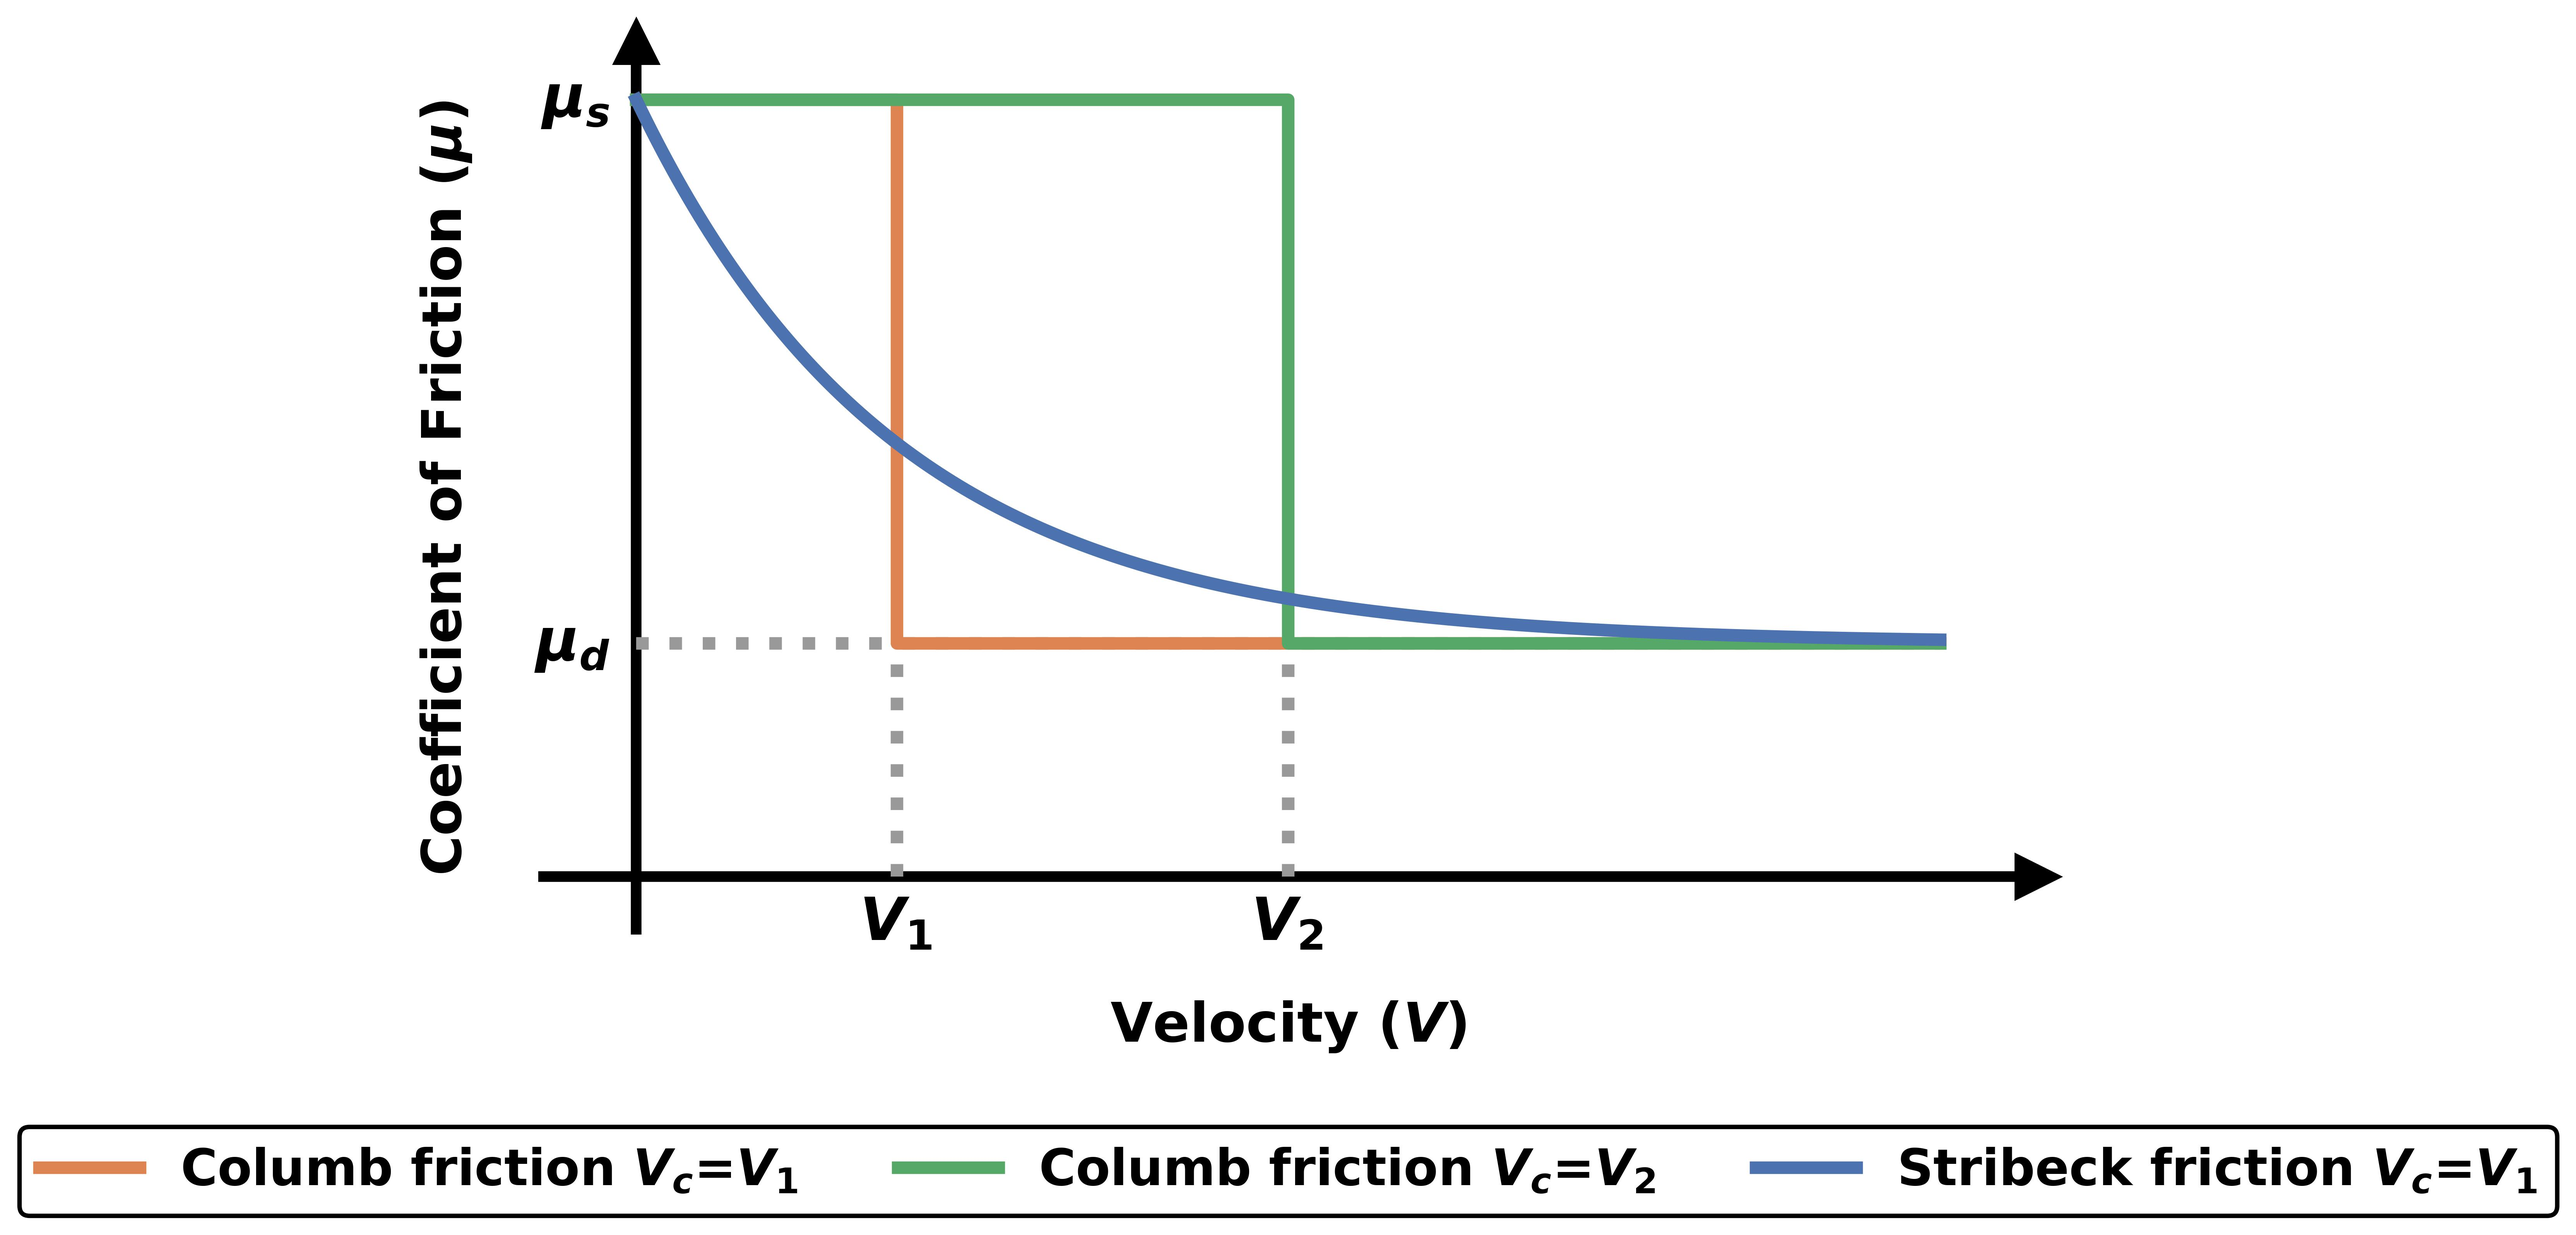
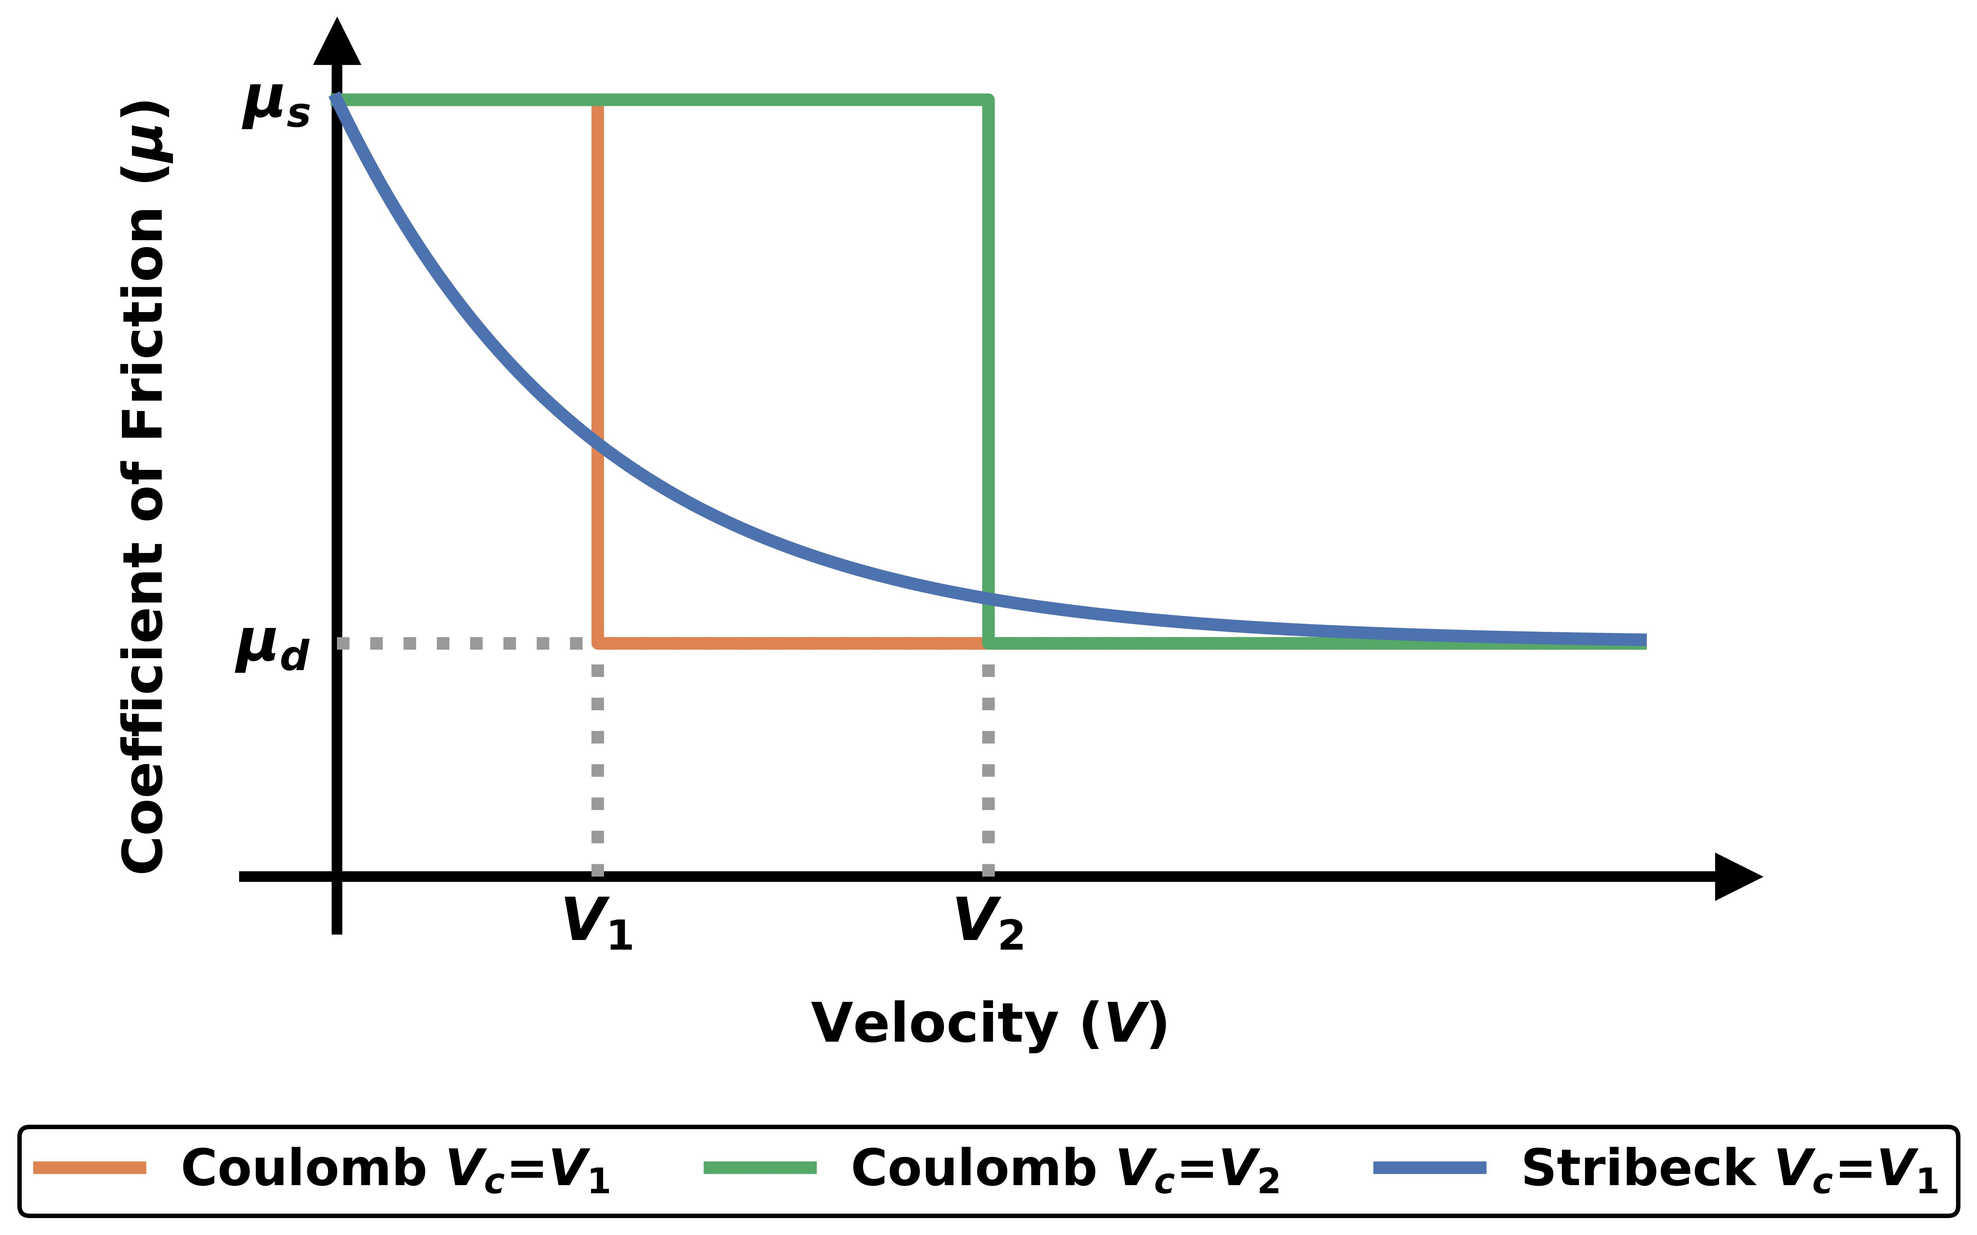
Separated Recommended Procedures for Developing Test Cases into its own chapter.

diff --git a/src/Recommended Procedures for Developing Test Cases.tex b/src/Recommended Procedures for Developing Test Cases.tex
@@ -1,46 +1,67 @@
 \chapter{Recommended Procedures for Developing Test Cases}
+This chapter presents recommended practices for developing Test Cases.  Some of the material presented is general ``debugging'' practices and useful to other scenarios than just drill string model comparisons; other topics are more specific to the current project, but are items that might be unknown or easily overlooked.  Theses learnings from developing the Test Cases should both help the reader understand why the particular Test Cases were chosen and provide a methodology for developing any new cases.
 
-In addition to the Test Cases themselves, the learnings from developing the Test Cases is presented.  This will both help the reader understand why the particular Test Cases were chosen and provide a methodology for developing any new cases.
-
-
-Drill string models are complex and contain a number of parameters.  These parameters are used to make a simulation more realistic, but they are often implemented in different ways in different models.
-
-
-
+\section{General Practices}
+Drill string models are complex and may be developed in very different manners.  To compare then, it is recommended to use standard best practices for debugging.  These practices are universal regardless if you are debugging a mechanical system or software source code.
 \begin{bulletedlist}
-	\item For initial model comparison, remove top drive to eliminate it as a variable
-	\item Use with a vertical borehole
-
-	\item Note how tool joints are handled: ignored, modified stiffness (equivalent stiffness), account for contact/friction?
-	\item Carefully examine the units and ensure they are accurately converted
+	\item Start with the simplest possible case and get that to work first
+	\item Vary parameters one by one, changing multiple at a time convolutes behavior and makes it difficult to determine which parameter affected what part of the behavior
+    \item Learn the subtle details about how the models work, these often are overlooked and can a significant impact on model behavior
 \end{bulletedlist}
-\notfinished{}
+
+\section{Parameters}
+Drill string models and contain a number of input parameters.  These parameters are used to make a simulation more realistic, but they are often implemented in different ways in different models.  This makes comparing models challenging.
+\begin{numberedlist}
+	\item Be mindful of the units, they may be in completely different systems or have subtle definition differences that must be accounted for
+	\item Eliminate as many variables as possible by carefully selecting your Test Case
+	\item Add parameters back one by one once you have succeeded in matching model behavior
+\end{numberedlist}
+
+\section{Practices for Drill String Models}
+Below are some practices that are specific to drill string models that can assist in model comparisons.
+
+\begin{definition}{Remove the top drive}
+Top drive models can have a dramatic impact on model behavior and they can be a challenge to match.  The tuning parameters used in the model may not translate well to another model.  It is best to start by removing the top drive and matching model behavior.  Once that is done, the top drives can be added back and it is known that any differences are caused by the top drive model.
+\end{definition}
+
+\begin{definition}{Start with a vertical borehole}
+This removes the effects of the friction model, gravity, and other effects.
+\end{definition}
+
+\begin{definition}{Start by removing the tool joints}
+This eliminates multiple variables such as how the tool joint stiffness and contact are calculated.
+\end{definition}
+
+\begin{definition}{Note how tool joints are handled}
+Are the tool joints ignored or directly handled by the model?  If the model does not handle the tool joints internally, it may be necessary to use techniques such as modifying the stiffness (equivalent stiffness) to be able to compare one drill string model to another.  It will also be important to account for the contact and friction in this case.
+\end{definition}
 
 \section{Friction Models}
 When working with various friction models, it becomes vital to identify parameters that result in similar frictional behaviors.  The parameters for the friction models are static coefficient of friction, dynamic coefficient of friction, and critical velocity. Generally, the static and dynamic coefficients of friction can be equated across different models, while special attention is required to align the critical velocity with the desired frictional behavior.
 
 \subsection{Units}
-In the context of modeling torsional dynamics, if the critical velocities of two different models are provided in different units such as meters per second ($m/s$) and revolutions per minute ($RPM$), unit compatibility must first be established for meaningful comparison. Converting $m/s$ to $RPM$ can be achieved by \equationname~\ref{velocity_conversion}.
+In the context of modeling torsional dynamics, if the critical velocities of two different models are provided in different units such as meters per second ($m/s$) and revolutions per minute ($RPM$), unit compatibility must first be established for a meaningful comparison. Converting $m/s$ to $RPM$ can be achieved by using
 \begin{equation}\label{velocity_conversion}
-  V=v\frac{60}{2\pi}*r_o
+    V = v\frac{60}{2\pi}r_o
 \end{equation}
 where $V$ and $v$ are angular velocity expressed in $RPM$, and $m/s$, respectively, and $r_o$ is outer radius of the drill pipe.  Note that this conversion relies on the pipe diameter and thus will, in general, vary along the length of the drill string.  For this reason, it is preferred that the input units for the critical velocity to be linear and the conversion be done internally by the drill string model on each pipe segment.
-
-
 
 % \wordingstart{} After matching the units, the critical angular velocity of the model, which is for the comparison, can be decided by comparing the frictional force with respect to angular velocity. \wordingend{}
 %For instance, considering Test Case 2 with a critical velocity of 0.03 $m/s$ and a drill string radius of 0.075 $m$, the critical velocity can be converted to 4$RPM$.
 
-\figurename~\ref{figure:stribeck_coulomb_friction} shows an example comparison between Coulomb and Stribeck friction models. It compares two different critical velocities of a Coulomb model with a Stribeck model.
+\section{Coulomb versus Stribeck Friction Models}
+Coulomb and Stribeck friction models both account for sliding friction.  The Coulomb model is simpler and is a step function that alternates from the static friction coefficient and dynamic friction coefficient.  The critical velocity may take any, but is frequently assume to be zero.  The Stribeck model is a little more sophisticated and assumes an exponential decay between the static and dynamic coefficients of friction.  In the more general cases, both models may assume an increase in the friction coefficient as the velocity increases (this effect is not included for this project).
 
-In this project, we selected an angular velocity of 10 $RPM$ for the Coulomb model. This choice allows us to align the exponentially decreasing component of the Stribeck model with the static friction inherent in the Coulomb friction model. However, it is important to note that additional tests involving different angular velocities have been performed and are included in the appendix chapter for comprehensive analysis. \reviewcomment{If not added, modify}
-
+To compare a model that uses a Coulomb friction model to one that uses a Stribeck model, the challenge is in selecting the appropriate critical velocity.  To demonstrate this, \figurename~\ref{figure:stribeck_coulomb_friction} shows an example comparison between Coulomb and Stribeck friction models. It compares two different critical velocities of a Coulomb model with a Stribeck model.
 \begin{figure}
-  \centering
-  \includegraphics[width=5in]{Stribeck_Coulomb_friction}
-  \caption[Comparison between Coulomb and Stribeck friction model]{A comparison between Coulomb and Stribeck friction models. A Stribeck model with a critical velocity of $V_1$ is compared to Coulomb friction models with critical velocities of $V_1$ and $V_2$. $\mu_s$ and $\mu_d$ indicate the static and dynamic coefficients of friction, respectively, and $V$ is the velocity.  The Coulomb model with a critical velocity of $V_1$ matches the critical velocity of the Stribeck friction.  The choice of $V_2$ as the critical velocity for the Coulomb friction is closer to the point where the Stribeck model coefficient begins to significantly increase.}\label{figure:stribeck_coulomb_friction}
+	\centering
+	\includegraphics[height=2.25in]{Stribeck_Coulomb_friction}
+    \caption[Comparison between Coulomb and Stribeck friction model]{A comparison between Coulomb and Stribeck friction models. A Stribeck model with a critical velocity of $V_1$ is compared to Coulomb friction models with critical velocities of $V_1$ and $V_2$. $\mu_s$ and $\mu_d$ indicate the static and dynamic coefficients of friction, respectively, and $V$ is the velocity.  The Coulomb model with a critical velocity of $V_1$ matches the critical velocity of the Stribeck friction.  The choice of $V_2$ as the critical velocity for the Coulomb friction is closer to the point where the Stribeck model coefficient begins to significantly increase.}
+	\label{figure:stribeck_coulomb_friction}
 \end{figure}
+The Coulomb model with a critical velocity of $V_1$ matches the critical velocity of the Stribeck friction.  The choice of $V_2$ as the critical velocity for the second Coulomb friction curves moves the change from static to dynamic coefficients of friction to the point where the Stribeck model coefficient begins to significantly increase.
 
+There are arguments for selecting either $V_1$ or $V_2$.  The choice $V_1$ seems to be a natural choice.  It is the same value the Stribeck model uses as its critical velocity.  In addition, as a method to measure how close the curves are, we could calculate the area under the curves.  In \figurename~\ref{fig:frictionmodelareaundercurves}, this is demonstrated.
 \begin{figure}
 	\begin{minipage}[t]{\linewidth}
 			\begin{minipage}[t]{0.325\linewidth}
@@ -64,6 +85,11 @@ In this project, we selected an angular velocity of 10 $RPM$ for the Coulomb mod
 				\label{fig:Stribeck_Coulomb_friction_filled_1}
 			\end{minipage}
 	\end{minipage}
-	\caption[Areas under friction curves]{The areas under the friction curves are used as a measurement of how close the curves are to each other.  The choice of $V_1$ for the critical velocity of the Coulomb friction creates an area under the curve which is closer to the Stribeck curve.  The areas were calculated for the velocity range of $[0, 2V_2]$.  The legend from \figurename~\ref{figure:stribeck_coulomb_friction} is applicable here as well.}
+    \caption[Areas under friction curves]{The areas under the friction curves are used as a measurement of how close the curves are to each other.  The choice of $V_1$ for the critical velocity of the Coulomb friction in~(\subref{fig:Stribeck_Coulomb_friction_filled_0}) creates an area under the curve which is closer to the Stribeck curve shown in~(\subref{fig:Stribeck_Coulomb_friction_filled_2}).  The choice of $V_2$ for the critical velocity of the Coulomb model, shown in in~(\subref{fig:Stribeck_Coulomb_friction_filled_1}), leads to a larger area.  The areas were calculated for the velocity range of $[0, 2V_2]$.  The legend from \figurename~\ref{figure:stribeck_coulomb_friction} is applicable here as well.}
 	\label{fig:frictionmodelareaundercurves}
 \end{figure}
+It can be seen that, on average, the coefficient of friction from the Coulomb model with a critical velocity of $V_1$ is a close match to the Stribeck model.  The argument for selection $V_2$ is that it is closer to when the Stribeck model coefficient of friction begins to increase and this may better match the behavior of the Stribeck model.  It should be noted, these are only two choices and others are possible as well.  The choice of what critical velocity to use is non-obvious.  Therefore, testing should be conducted to determine the best value.
+
+Some preliminary testing indicated $V_2$ gave a better match between models\footnote{The results are not included as part of this report.}.  Therefore, in this project, we selected a critical angular velocity that corresponds to $V_2$ for the Coulomb model. This choice allows us to align the exponentially decreasing component of the Stribeck model with the end point of static friction of the Coulomb friction model.  However, it should be noted that this may not be a universal selection and further testing should be performed to investigate further.
+
+%However, it is important to note that additional tests involving different angular velocities have been performed and are included in the appendix chapter for comprehensive analysis. 

diff --git a/src/Glossary.tex b/src/Glossary.tex
@@ -35,6 +35,12 @@
 	description=In the drilling dynamics realm\comma{} this taken the definition of a dynamic drill string code combined with a high fidelity drill bit code
 }
 
+\newglossaryentry{criticalvelocityfriction}
+{
+	name=critical velocity (friction),
+	description={The velocity that the coefficient of friction changes (or is assumed to change) from static to dynamic}
+}
+
 \newglossaryentry{damping}
 {
 	name=damping,

diff --git a/src/Recommendations.tex b/src/Recommendations.tex
@@ -29,6 +29,7 @@ Considering the overall excellent comparison of the model, it may be asked if a 
 	\item Collaboration on code (use Github to contribute pull requests, et cetera)
 	\item Mud motor effects
 	\item Cased versus open-hole feature addition and case study
+	\item Investigate the selection of critical velocities when comparing Coulomb and Stribeck friction models
 \end{bulletedlist}
 
 \subsection{Test Cases}
